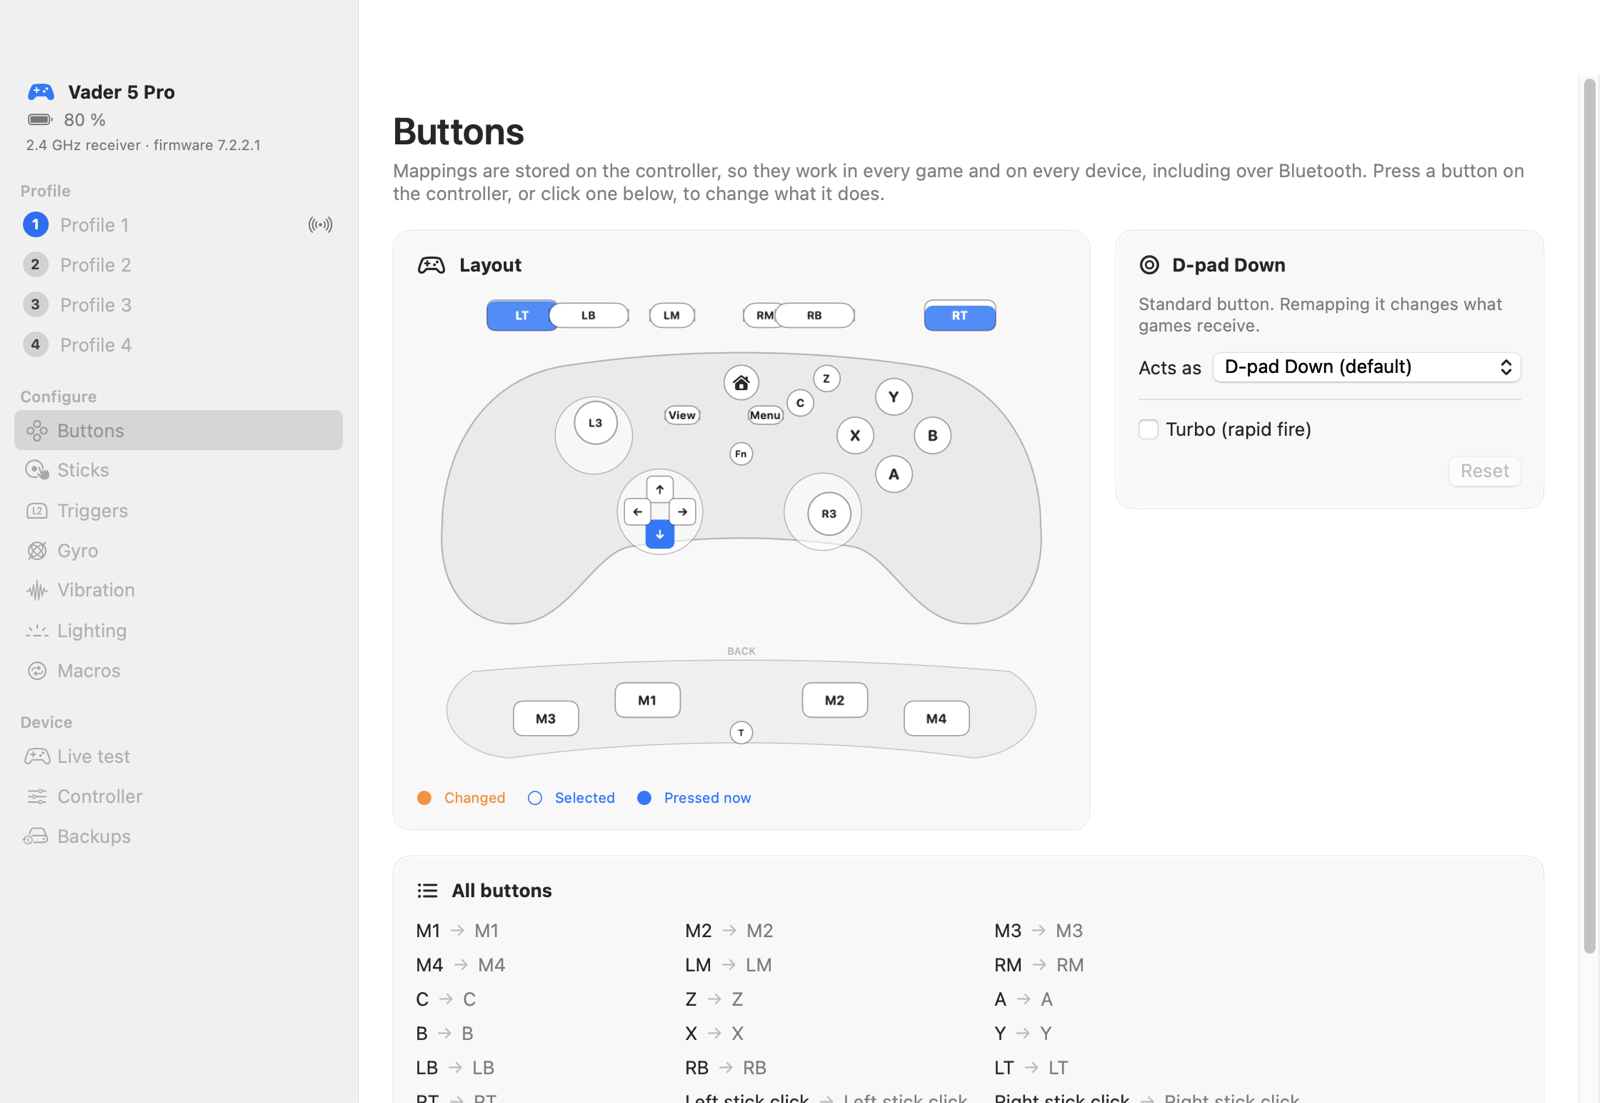
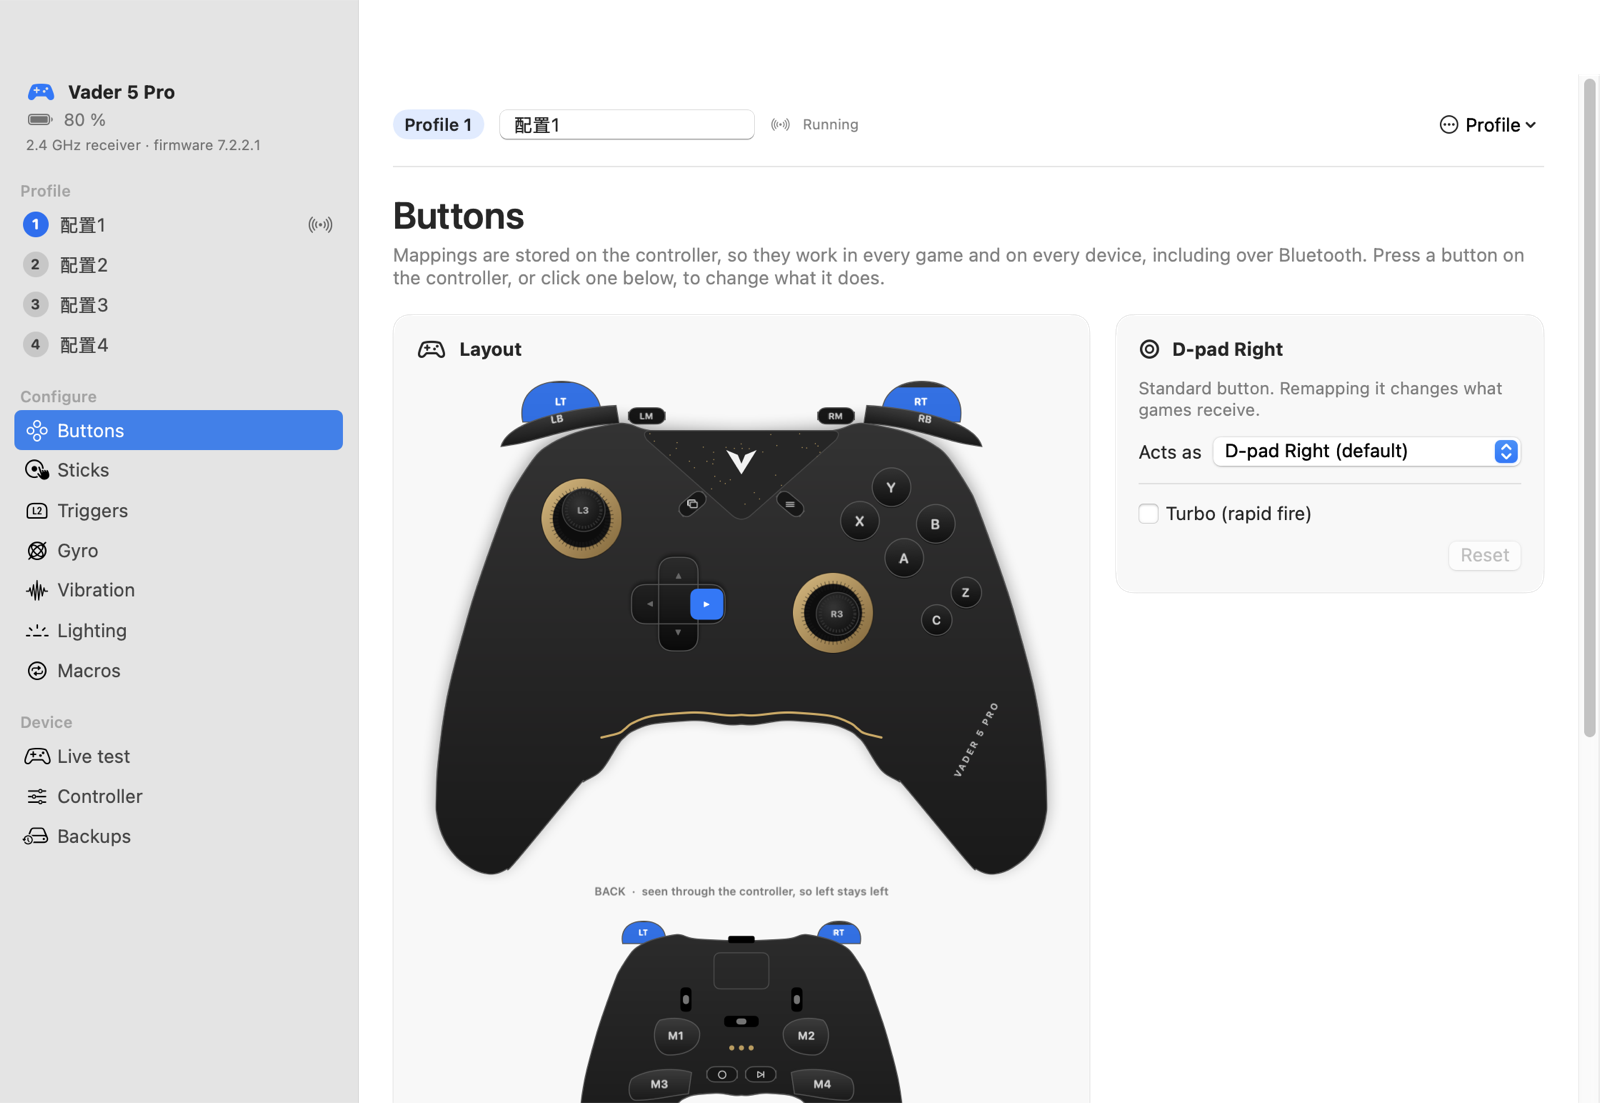
Drop the "light reacts to rumble" toggle
Lighting byte 9 is Flydigi's GripSync ("sync grip lighting"), not a
rumble link: with it set, the light bar ignored both game rumble and
the motor test. Keep the byte as read, rename it, and refresh the README
screenshots, which still showed the old controller drawing.

diff --git a/Sources/VaderKit/Model/LightingConfig.swift b/Sources/VaderKit/Model/LightingConfig.swift
@@ -114,8 +114,9 @@ public struct LightingConfig: Sendable, Equatable {
         set { bytes[5] = UInt8(max(1, min(255, newValue))) }
     }
 
-    /// Dims part of the light bar while the grips rumble.
-    public var rumbleSync: Bool {
+    /// Flydigi's "sync grip lighting" flag (`GripSync`). It has no visible effect on the Vader 5 Pro, which
+    /// has no grip lights; the light bar ignored both game and test rumble with it set. Kept as read.
+    public var gripSync: Bool {
         get { bytes[9] == 1 }
         set { bytes[9] = newValue ? 1 : 0 }
     }

diff --git a/Sources/OpenVader/Views/LightingView.swift b/Sources/OpenVader/Views/LightingView.swift
@@ -89,8 +89,6 @@ struct LightingView: View {
                                     help: "Frame time stored on the controller; smaller is faster.",
                                     format: { "\(256 - $0)" })
                             }
-                            Toggle("Light reacts to rumble", isOn: Binding(
-                                get: { draft.lighting.rumbleSync }, set: { draft.lighting.rumbleSync = $0 }))
                         }
                     }
                 }

diff --git a/Tests/VaderKitTests/CodecTests.swift b/Tests/VaderKitTests/CodecTests.swift
@@ -97,7 +97,7 @@ import Testing
         #expect((1..<10).allSatisfy { f in (0..<12).allSatisfy { l.color(frame: f, led: $0).isBlack } })
         #expect(l.bytes.count == 380)
         #expect(l.bytes[2] == 0)
-        #expect(l.rumbleSync, "header bytes outside the effect are preserved")
+        #expect(l.gripSync, "header bytes outside the effect are preserved")
     }
 
     @Test func breathingAlternatesWithDark() {

diff --git a/docs/PROTOCOL.md b/docs/PROTOCOL.md
@@ -98,7 +98,8 @@ table when that stick's curve is edited.
 ## Lighting blob (320 bytes)
 
 Header of 20 bytes: `[0, 3, clickFeedback, loopStart, loopEnd, frameTime, brightness, ledCount, effect,
-rumbleSync, FF × 10]`, then frames × LEDs × RGB. The Vader 5 Pro reports 10 LEDs and 10 frames (the Apex 5 has 12); read
+gripSync, FF × 10]`, then frames × LEDs × RGB. `gripSync` is Flydigi's "sync grip lighting" flag; on a Vader 5 Pro
+(fw 7.1.5.0) setting it changed nothing visible, with either game rumble or the `0x12` motor test. The Vader 5 Pro reports 10 LEDs and 10 frames (the Apex 5 has 12); read
 the geometry from the blob rather than assuming it.
 
 The controller has no effect generator. It cycles frames `loopStart…loopEnd`, and the effect byte is only
